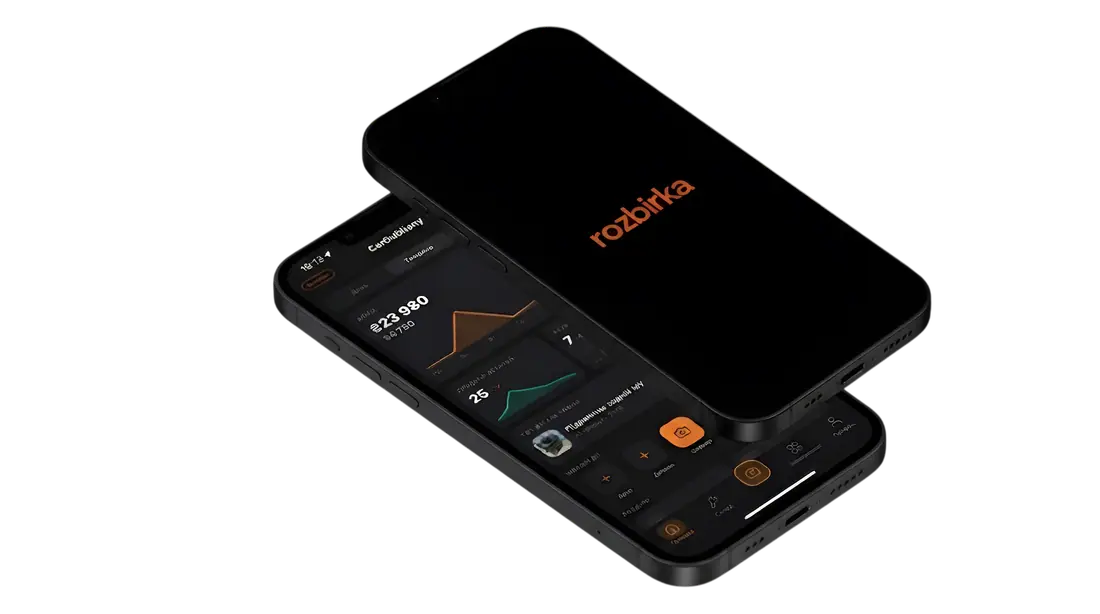
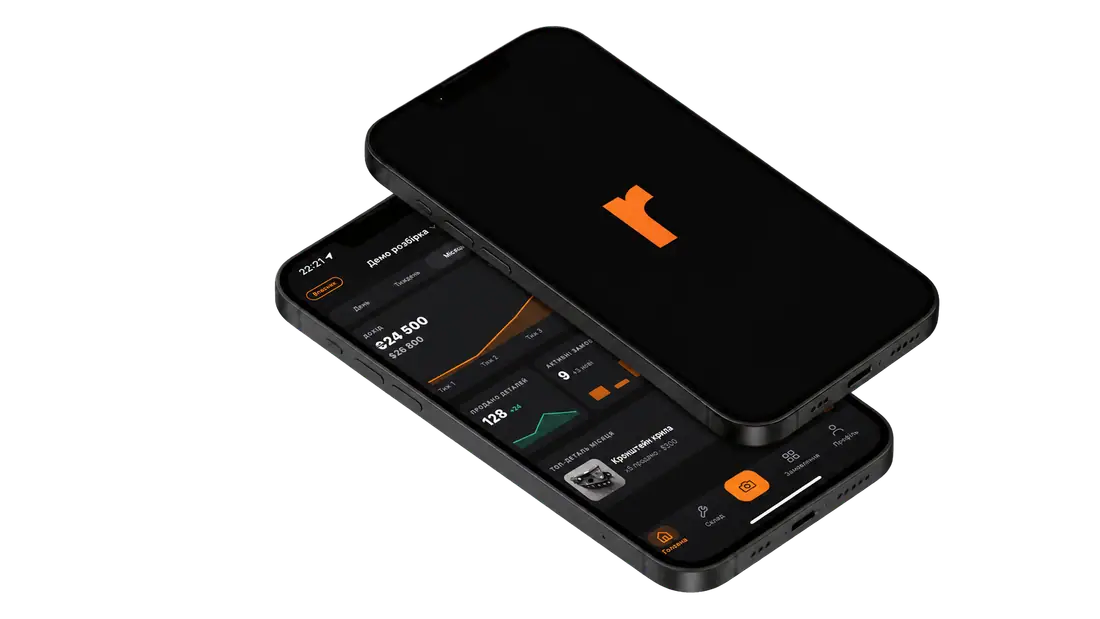
feat(web): update CTA phone artwork

diff --git a/src/components/site/media-assets.test.ts b/src/components/site/media-assets.test.ts
@@ -1,12 +1,20 @@
 // @vitest-environment node
 /// <reference types="node" />
 import { readFile, readdir, stat } from 'node:fs/promises'
+import { createHash } from 'node:crypto'
 import path from 'node:path'
 import { describe, expect, it } from 'vitest'
 
 const root = process.cwd()
 
 describe('production media contract', () => {
+  it('uses the approved anonymized CTA phone artwork', async () => {
+    const artwork = await readFile(path.join(root, 'src/assets/cta-phones.png'))
+    expect(createHash('sha256').update(artwork).digest('hex')).toBe(
[1 lines of base64/hex data omitted]
+    )
+  })
+
   it('does not import legacy heavy media from production components', async () => {
     const files = [
       'src/components/site/hero.tsx',
